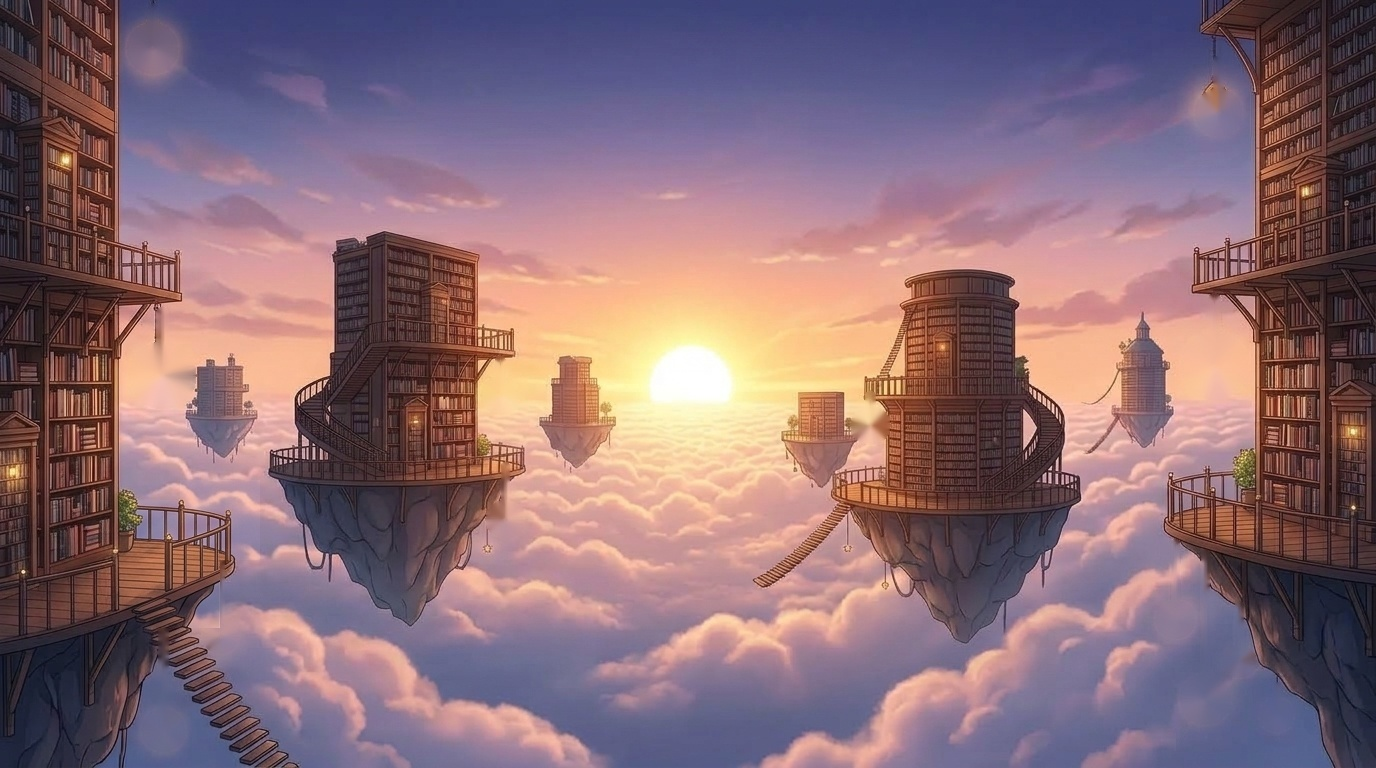
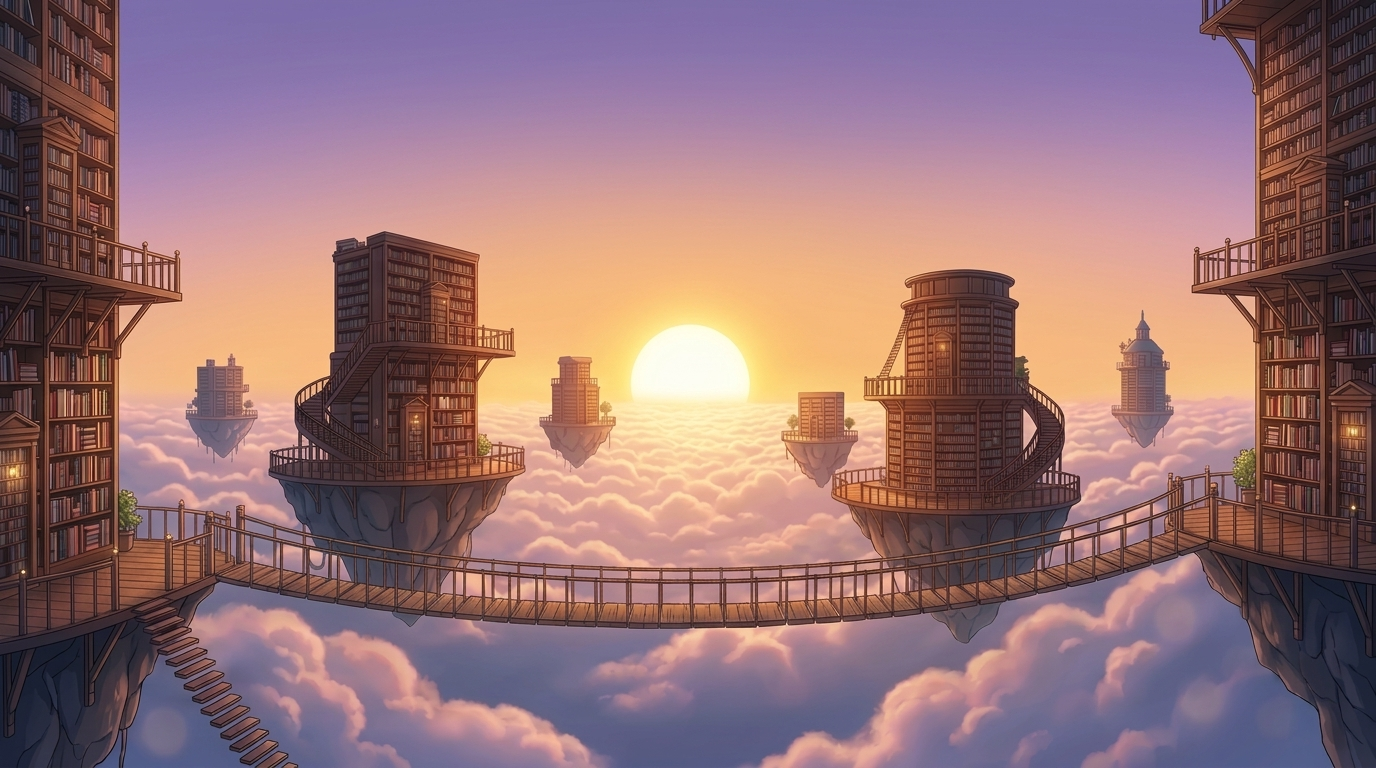
feat(landing): update image versioning for star-center graphic in landing component

diff --git a/src/app/features/landing/landing.component.html b/src/app/features/landing/landing.component.html
@@ -519,7 +519,7 @@
         </div>
 
         <div class="sanctuary-swing-item star-center" data-swing-id="star-center" aria-hidden="true">
-          <img src="/images/sanctuary/stars/star-center.png" class="swing-img" alt="" />
+          <img src="/images/sanctuary/stars/star-center.png?v=3" class="swing-img" alt="" />
           <div class="star-glow" aria-hidden="true"></div>
         </div>
 
